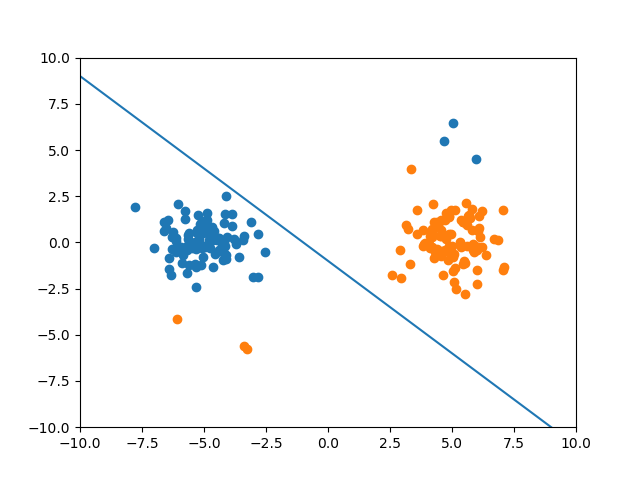
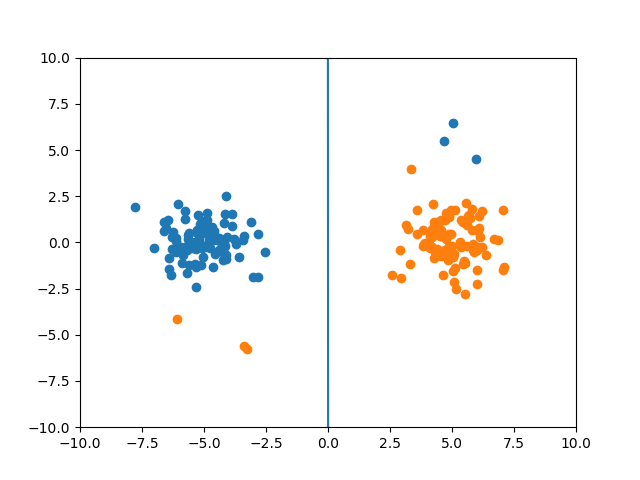
できてる気がしない。

diff --git a/Lecture_6/SVM.py b/Lecture_6/SVM.py
@@ -57,11 +57,11 @@ def svm(x, y, l, lr):
     :return: three-dimensional vector w
     """
 
-    w = np.ones(3)
+    w = np.zeros(3)
     prev_w = w.copy()
     phi = design_mat(x)
     for i in range(10 ** 4):
-        a = sub_diff(phi, y, w)
+        w -= lr * (sub_diff(phi, y, w) + l * phi.T.dot(y))
         if np.linalg.norm(w - prev_w) < 1e-3:
             break
         prev_w = w.copy()
@@ -92,12 +92,18 @@ def sub_diff(phi, y, w):
     '''
     線形モデルにおける劣勾配を計算する
     '''
-    # 出力(1次元ベクトル,データ数の長さ)
-    out = phi.dot(w)
-    # マージンを計算
-    margen = out * y
-    diff = np.zeros_like(w)
-    return diff
+    # 0でない場合の勾配を計算
+    diff = np.empty_like(phi)
+    for i in range(3):
+        diff[:, i] = phi[:, i] * y * w[0]
+    # 代入用の勾配
+    integral = np.zeros_like(diff)
+    for i in range(3):
+        integral[:, i] = phi[:, i] * y
+    # 劣勾配アルゴリズムによりパラメータを逐次更新
+    diffsum = np.sum(diff, axis=1, keepdims=True)
+    out = np.where(1 - diffsum < 0, 0, integral)
+    return np.sum(out, axis=0)
 
 
 if __name__ == '__main__':

diff --git a/README.md b/README.md
@@ -9,3 +9,5 @@ l1正則化項を評価関数に足すことでスパース回帰を行う。交
 テューキー回帰。繰り返し最小二乗アルゴリズムにより評価関数を最適化。
 ## Lecture_5
 ガウスカーネルモデルによる2クラス分類を応用し、1対多法により10クラス分類を行う。
+## Lecture_6
+サポートベクターマシンによる線形モデルでの分類協会の計算。劣勾配アルゴリズムで計算する。
